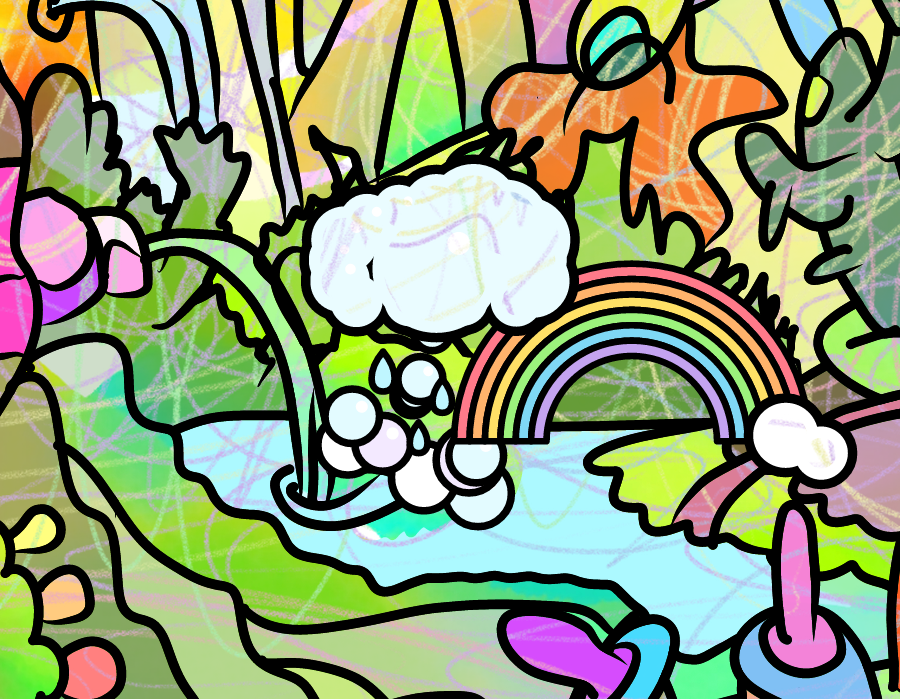
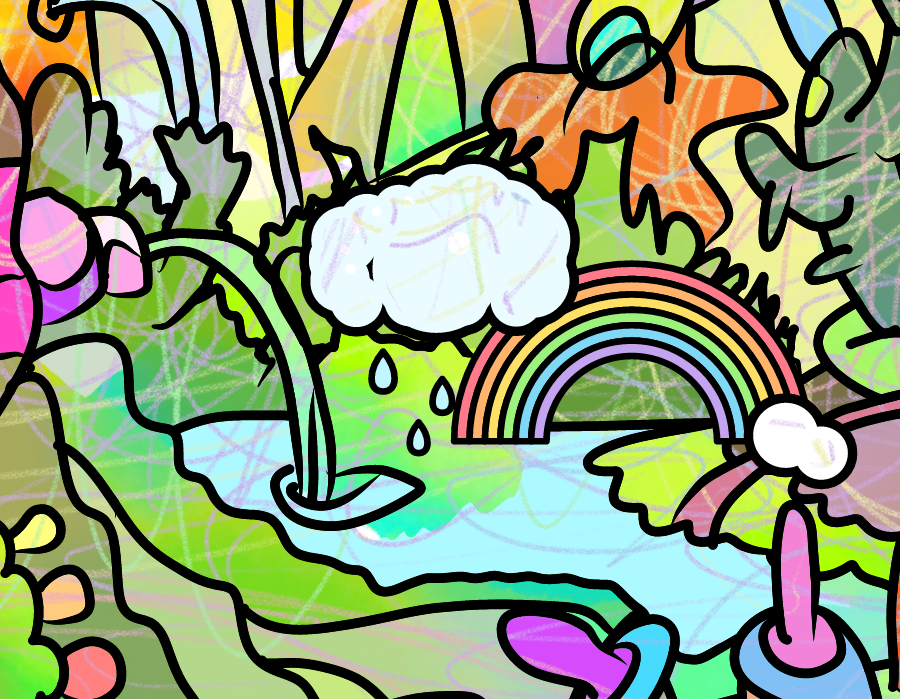
Shrink the stream's bubbles away as the cloud forms
Per Matt: the bubbles disappear as the cloud finishes forming (0.45 to 0.7), so they are gone when it
rains.

Changed region(s): [[0.3422, 0.4807, 0.5911, 0.7811]]

diff --git a/scripts/stream_endframes.py b/scripts/stream_endframes.py
@@ -350,7 +350,8 @@ def arc_band(ax, ay, r_out, r_in, a_end, n=40) -> str:
 
 def combo_frame(t: float) -> Image.Image:
     """Vibrato at t: the froth bubbles up (0..0.3), a column of bubbles rises (0.1..0.45), the bubble cloud gathers
-    above (0.25..0.6), the rainbow arcs out of it and down into the pool (0.5..0.85), droplets fall last (0.75..1)."""
+    above (0.25..0.6) and the bubbles shrink away into it (0.45..0.7), the rainbow arcs out of it and down into the
+    pool (0.5..0.85), droplets fall last (0.75..1)."""
     if t <= 0:
         return m.compose()
     SCRIB_MASK[0] = ''
@@ -358,14 +359,15 @@ def combo_frame(t: float) -> Image.Image:
     x0, y0 = FROTH_C
     rnd = random.Random(1)
     fb = win(t, 0.0, 0.3)
+    gone = 1 - win(t, 0.45, 0.65)  # the bubbles shrink away into the cloud as it finishes forming
     for k in range(10):
-        r = (55 - 3 * k + rnd.random() * 10) * fb
+        r = (55 - 3 * k + rnd.random() * 10) * fb * gone
         x = x0 + (rnd.random() - 0.5) * 260
         y = y0 + 80 - 18 * k + (rnd.random() - 0.5) * 30
         if r > 2:
             out += bubble(x, y, r, ['#e3fbff', '#ffffff', '#f3e9ff'][k % 3])
     for k, (x, y, r) in enumerate([(2090, 2400, 38), (2110, 2320, 32), (2085, 2255, 26), (2105, 2195, 20)]):
-        g = win(t, 0.1 + k * 0.07, 0.25 + k * 0.07)
+        g = win(t, 0.1 + k * 0.07, 0.25 + k * 0.07) * (1 - win(t, 0.45 + k * 0.03, 0.62 + k * 0.03))
         if g > 0.01:
             out += bubble(x, y, r * g)
     cx, cy = FROTH_C[0] + 20, FROTH_C[1] - 300

diff --git a/docs/object-animation-pattern.md b/docs/object-animation-pattern.md
@@ -99,6 +99,6 @@ its thing in the painting's style.
 | --- | --- | --- | --- |
 | golden-pyramid | `amp.drive` | the big golden pyramid, centre-right, with creatures on it | built: a sunburst grows out behind it (frames 0-0.6), a big eye opens on its right face (0.25-0.8), small flames rise on its slopes (0.55-1), its faces warm throughout; `docs/objects/pyramid-drive/mockup-vs-app.png` |
 | pyramid-worm (worm-expression) | `amp.expression` | the pale pink worm rising from the tunnel's rim on the pyramid, droopy hooked head, frilly tuft | built: ripples spread from its hole, candy bands climb its body, its tuft blooms into a crest, its head flares into a trumpet bell with sound waves; `docs/objects/worm-expression/mockup-vs-app.png` |
-| stream (stream-vibrato) | `vib.upper` | the pale blue pool fed by a thin waterfall, with a white froth splash | proposed: the froth bubbles up, a column of bubbles rises into a cloud of bubbles, a candy rainbow arcs from it into the pool, droplets fall (`docs/objects/stream-vibrato/bubble-rainbow/`, awaiting approval) |
+| stream (stream-vibrato) | `vib.upper` | the pale blue pool fed by a thin waterfall, with a white froth splash | proposed: the froth bubbles up, a column of bubbles rises into a cloud of bubbles and the bubbles shrink away into it, a candy rainbow arcs from it into the pool, droplets fall onto clear water (`docs/objects/stream-vibrato/bubble-rainbow/`, awaiting approval) |
 | sleepy-creature (curl-rotor) | `leslie.speed` | a sleepy green creature, bottom left, striped cap, cream ear and baguette arm | built: wind bands sweep round it, its eye opens by Slow, its arm rises (the stripes and ground filling its old place) and leaves are caught up by Fast; `docs/objects/curl-rotor/mockup-vs-app.png` |
 | stalk-left, stalk-right | `upper.db1`, `upper.db2` | two green stalks in the stalk forest, top left | they grow: one outlined branch per drawbar step, with leaves, spiral tendrils and eye-buds, sap rising |
